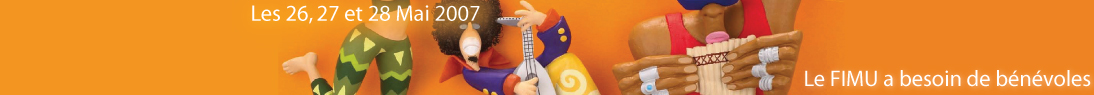
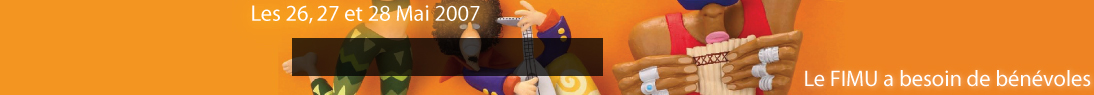
theme fimu

Changed region(s): [[0.2486, 0.4, 0.5594, 0.8]]

diff --git a/themes/fimu/css/site.css b/themes/fimu/css/site.css
@@ -6,12 +6,22 @@
 	background-position-left:0px;
 	background-repeat:none;
 	background-color: #F39521;
-	height:80px;
+	height:95px;
 }
 
 #logo img
 {
 	display: none;
+}
+
+#left
+{
+  top: 11em;
+}
+
+#right
+{
+  top: 11em;
 }
 
 #logo a
@@ -20,6 +30,9 @@
 	height:71px;
 	display: block;
 	background:url("../images/logo.jpg");
+	top:10px;
+	left:0px;
+  position:absolute;
 }
 
 div.tabsv2
@@ -68,8 +81,20 @@ div.tabsv2 span.selected a
   top: 4em;
 }
 
+#important
+{
+  top:25px;
+  left:265px;  
+}
+
 #important div.body
 {
   background:none;
+  color: white;
+
 }
 
+#important div.body a
+{
+  color: white;
+}
